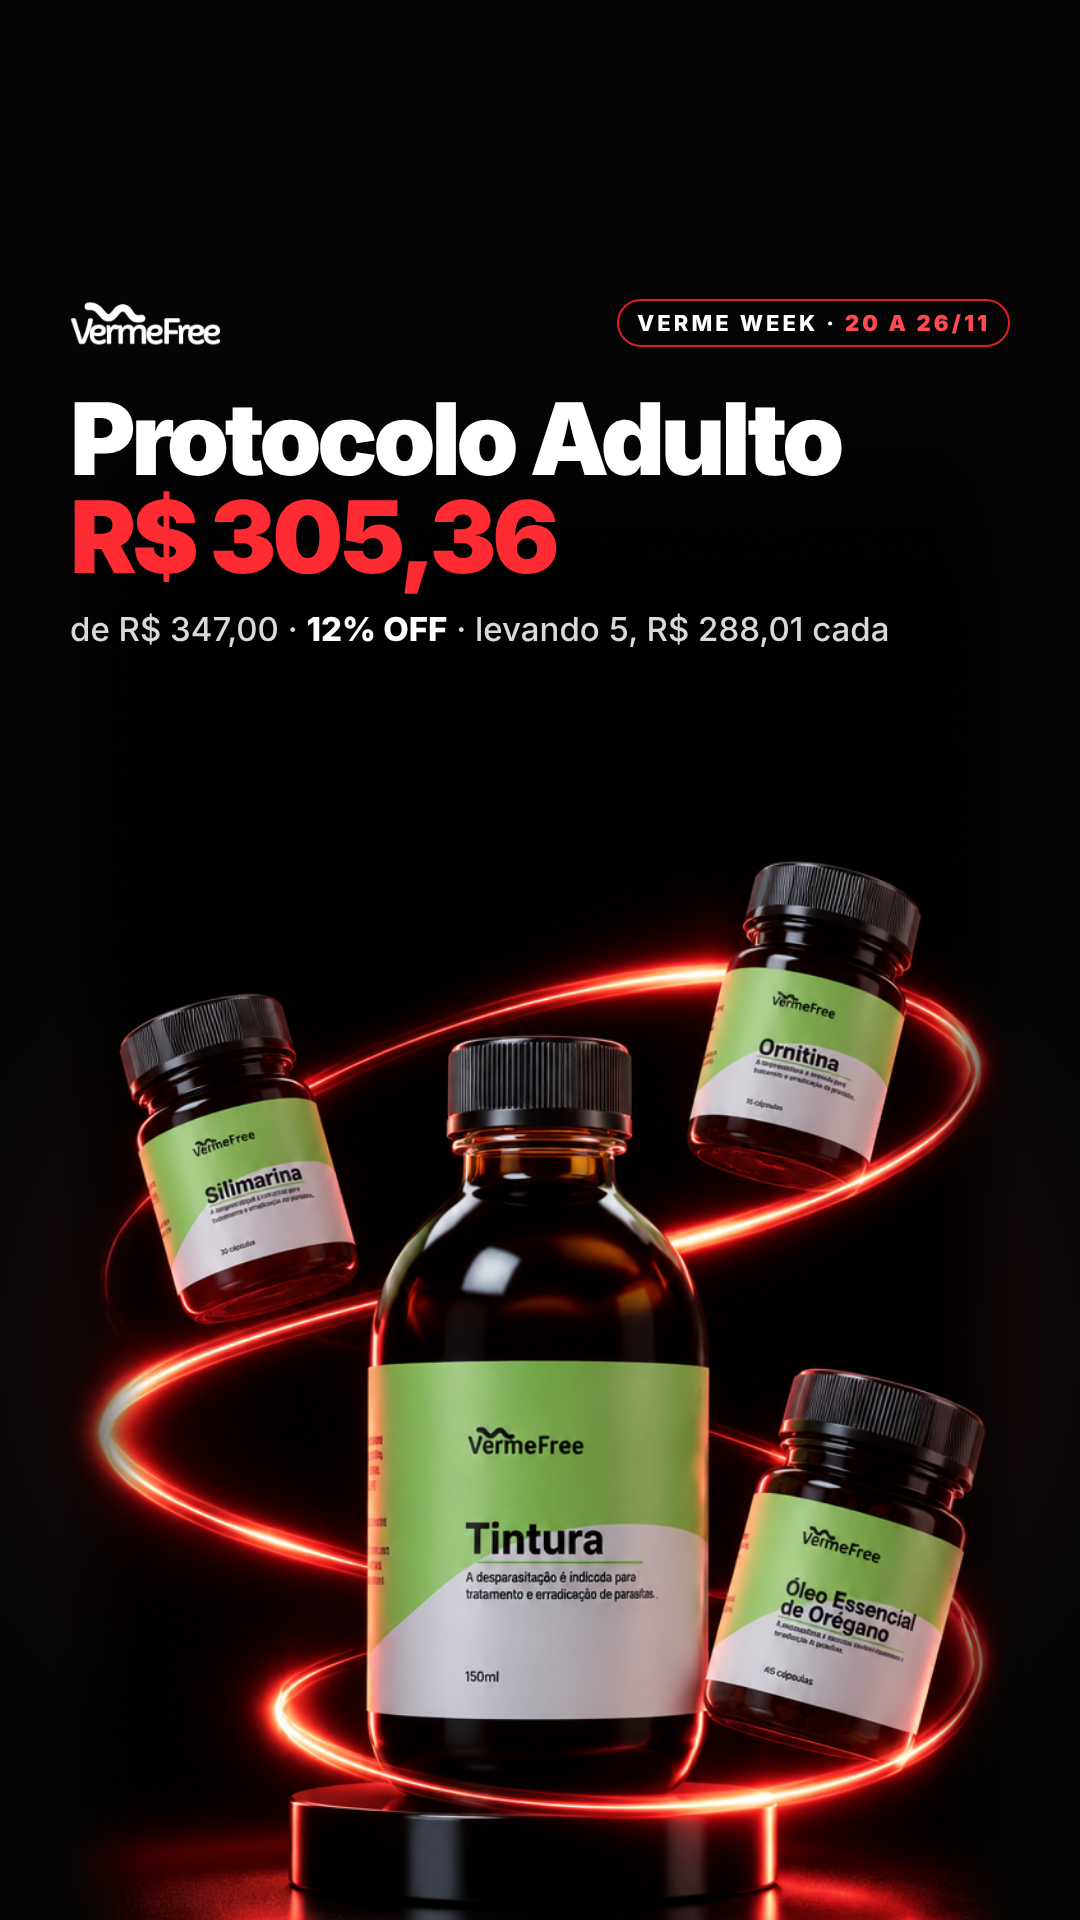
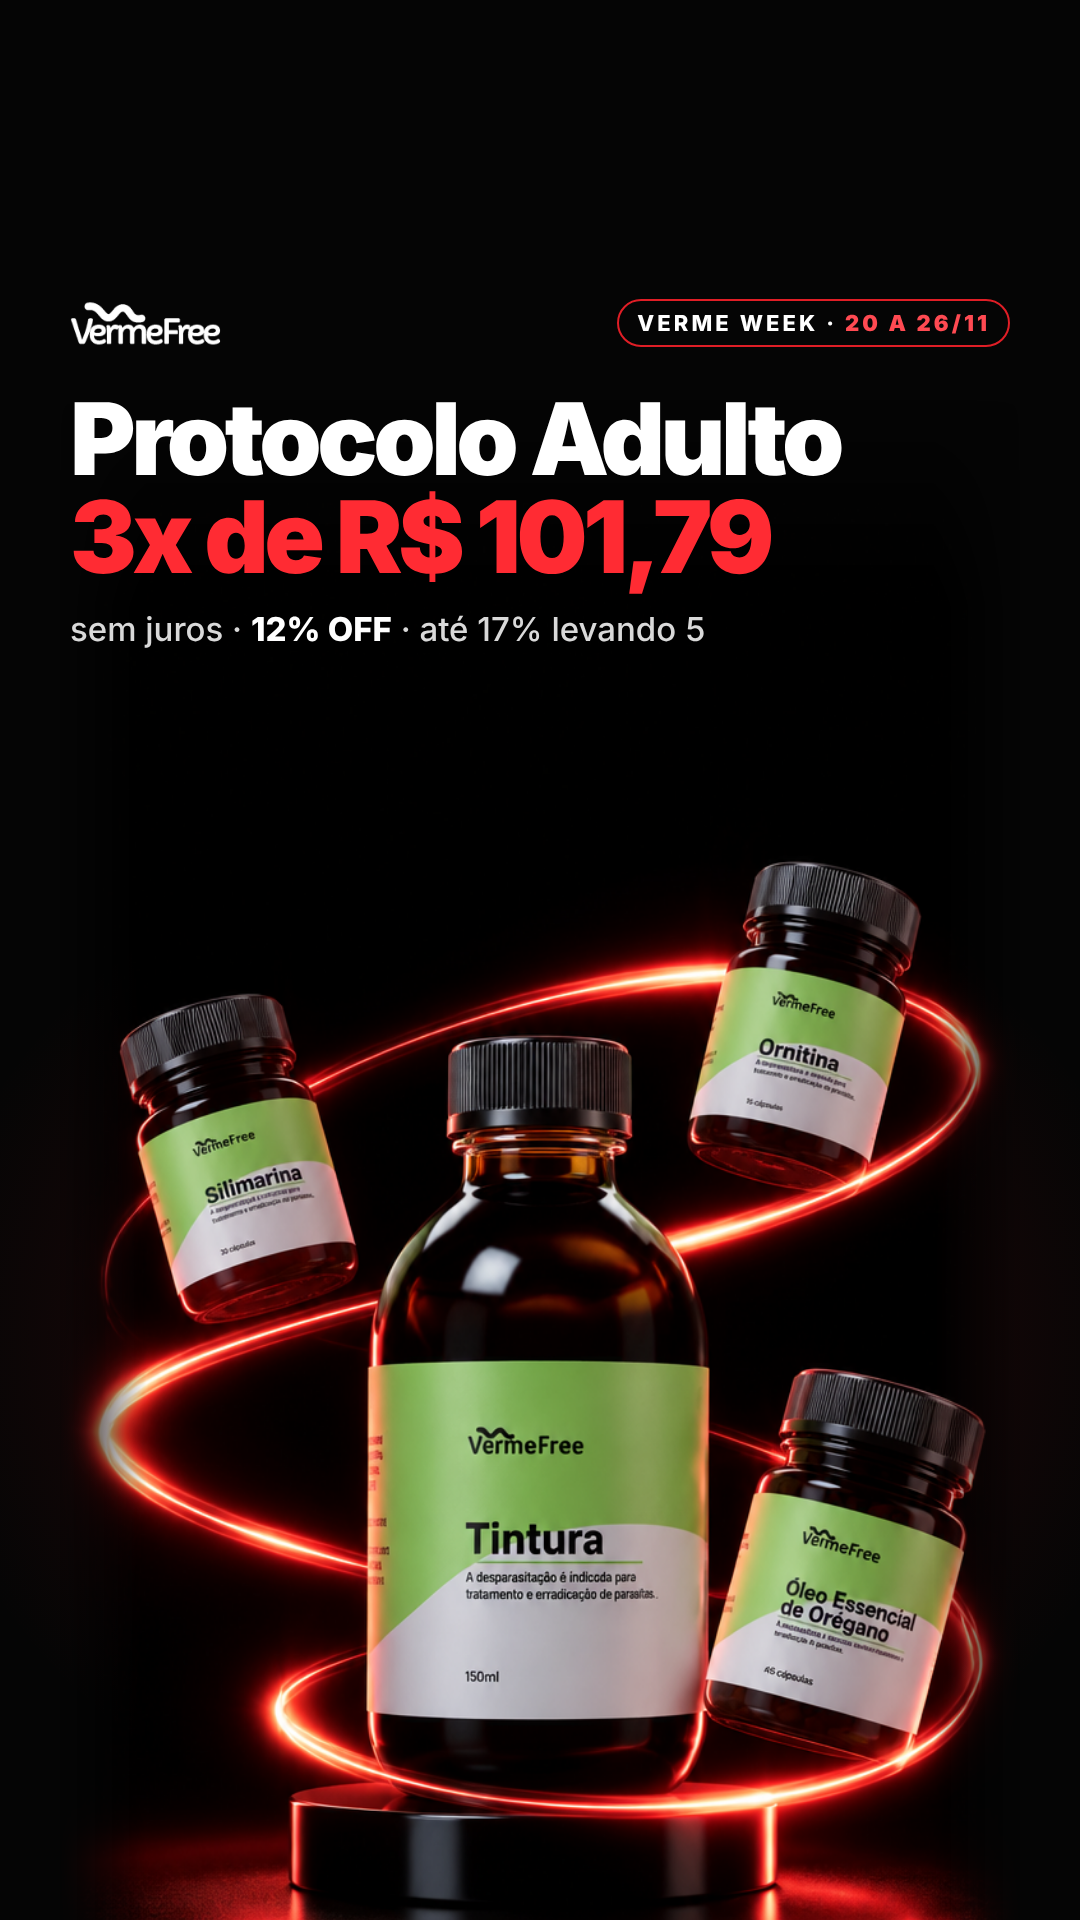
Verme Week v3: tira preço total, parcela 3x sem juros (03, 04, 05, 06, 09)
Claude-Session: https://claude.ai/code/session_01UR7LFtJwBJjiUEuKDUpttV

Changed region(s): [[0.0611, 0.25, 0.825, 0.3438]]

diff --git a/novembro-pedro/criativos/verme-week/copy.md b/novembro-pedro/criativos/verme-week/copy.md
@@ -4,17 +4,19 @@
 
 **v3 (a atual, 17/11):** depois do "esses saíram péssimos", produto herói: 10 cenas novas no Higgsfield com os produtos reais (cesta na mão, produtos caindo na cesta, tintura no pedestal com espiral de luz vermelha, mão de criança com cestinha, Kit Família em pirâmide com anel de luz, caixa explodindo, sacola + kit com laço, fileira de 7, mão colocando o 5º na cesta, espiral misturando Adulto + Kids). Layout mínimo: logo + selo "Verme Week · 20 a 26/11", título curto (branco + linha vermelha) e uma linha de apoio. Gerador gerar-vw3.cjs · cenas3/ · png3/ · provas prova3-*.jpg.
 
+17/11 (tarde): recomendação nova, sem preço total nos anúncios; quando tiver preço, só a parcela (3x sem juros, como no site). Mudaram 03, 04, 05, 06 e 09. Frete ≥ R$ 299 e brinde > R$ 1.000 ficam (são condição, não preço).
+
 | # | Título | Apoio |
 |---|---|---|
 | 01 | Começou. / Enche a cesta. | 12% em 1 · 15% levando 3 · 17% levando 5 |
 | 02 | Quanto mais leva, / maior o desconto. | Até 17% OFF no site todo, de 20 a 26/11 |
-| 03 | Protocolo Adulto / R$ 305,36 | de R$ 347,00 · 12% OFF · levando 5, R$ 288,01 cada |
-| 04 | VermeFree Kids / com 12% OFF. | 2 a 4 anos R$ 237,60 · 5 a 9 anos R$ 342,32 |
-| 05 | Kit Família / R$ 1.012 + brinde | 12% OFF e 1 kit adulto de brinde |
-| 06 | Frete grátis / acima de R$ 299. | 1 Protocolo Adulto (R$ 305,36) já passa |
+| 03 | Protocolo Adulto / 3x de R$ 101,79 | sem juros · 12% OFF · até 17% levando 5 |
+| 04 | VermeFree Kids / com 12% OFF. | a partir de 3x de R$ 79,20 sem juros · até 17% levando 5 |
+| 05 | Kit Família + brinde / 3x de R$ 337,33 | sem juros · 12% OFF + 1 kit adulto de brinde |
+| 06 | Frete grátis / acima de R$ 299. | 1 Protocolo Adulto já garante o frete grátis |
 | 07 | Acima de R$ 1.000, / um kit adulto é seu. | 1 kit adulto de brinde nas compras da Verme Week |
 | 08 | 7 dias. / Só até 26/11. | Até 17% OFF · acaba 26/11 às 23h59 |
-| 09 | Levando 5, / 17% OFF. | 5 Adultos por R$ 1.440,05 + kit adulto de brinde |
+| 09 | Levando 5, / 17% OFF. | 17% OFF em cada um + 1 kit adulto de brinde |
 | 10 | Pode misturar / Adulto + Kids. | 3 itens 15% · 5 itens 17% na mesma compra |
 
 **v2 (rejeitada):** estilo da referência do Pedro (cartaz de oferta: faixas inclinadas branca e vermelha, número gigante com sombra vermelha, pílula branca, botão "Comprar no site", rodapé com 3 benefícios, produtos reais recortados nos cantos, um desfocado), em fundo preto com vermelho e branco. Gerador gerar-vw2.cjs · png2/ · provas prova2-*.png. 9:16 com tudo entre 14% e 80%.
